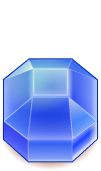
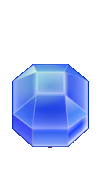
Gem Image size reduced and line:92 in app.js fixed

diff --git a/js/app.js b/js/app.js
@@ -89,8 +89,7 @@ Player.prototype.reset = function() {
         this.y = 415;
         if (this.lives === 1) {
             alert("!!!!!!!!!!!!!!GAME OVER!!!!!!!!!!! \n ********You Score: " + this.points);
-            this. points = 0;
-            this. lives = 5;
+            location.reload();
         }else {
         this.lives = this.lives - 1;
     }
